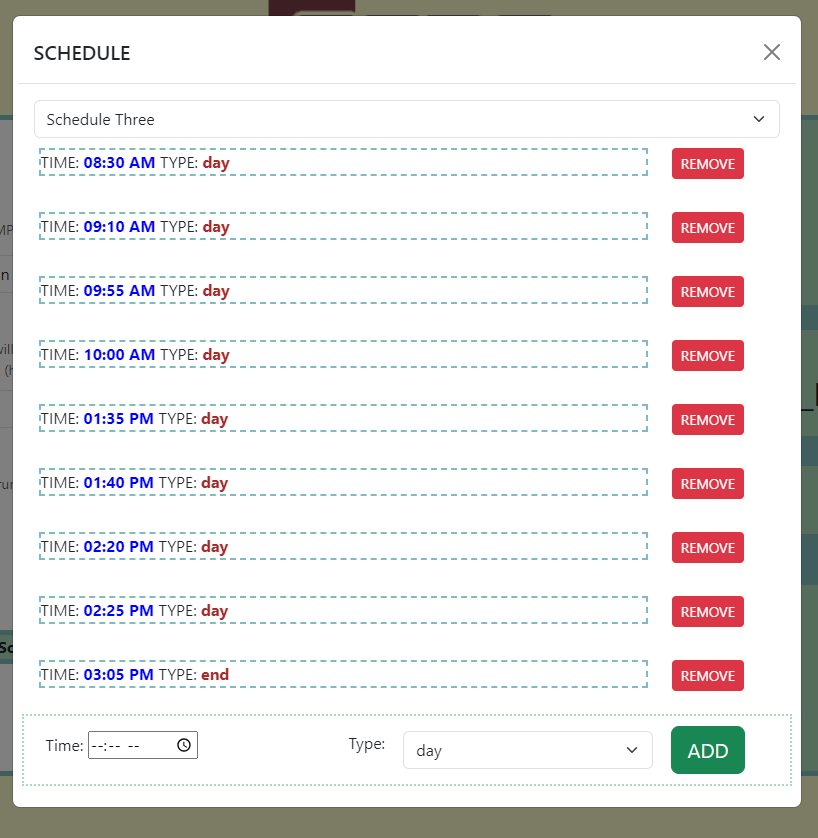
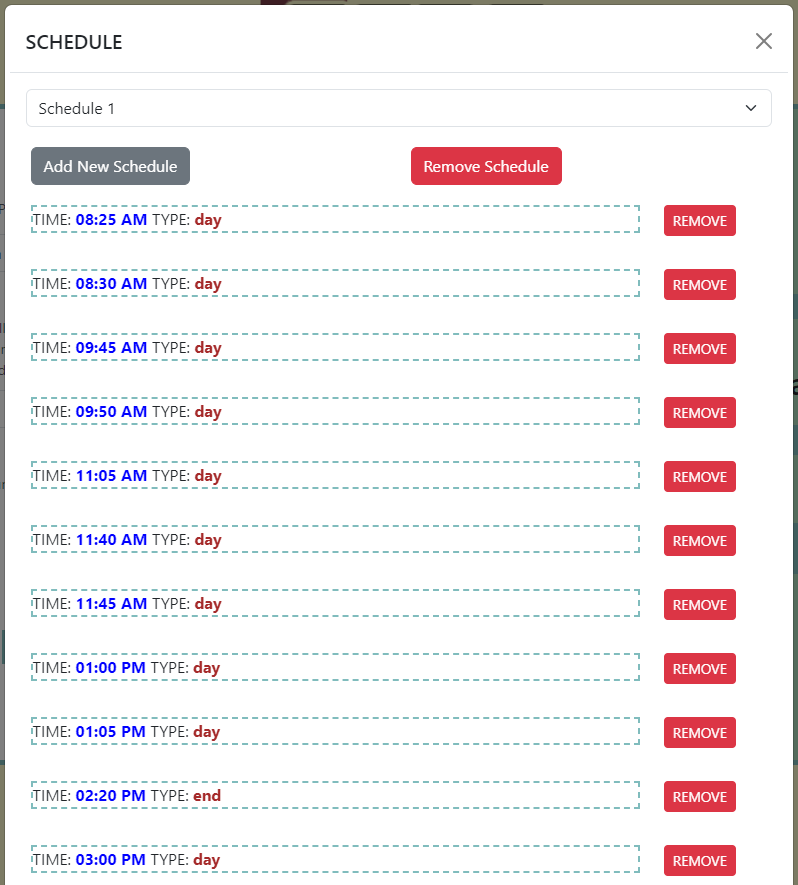
Sched Readme update

Changed region(s): [[0.0, 0.0, 1.0, 1.0], [0.5113, 0.1551, 0.7218, 0.2172]]

diff --git a/main.py b/main.py
@@ -23,7 +23,7 @@ app_state = {
                 "error": [False, False], 
                 "volume": 75, 
                 "schedule":"1", 
-                "schedule_1": get_schedule("schedule_1.json"),
+                "schedule_1":get_schedule("schedule_1.json"),
                 "schedule_2":get_schedule("schedule_2.json"), 
                 "schedule_3":get_schedule("schedule_3.json")
             }  # App state dictionary

diff --git a/README.md b/README.md
@@ -16,7 +16,7 @@ This project is designed to automate the school bell system using a Raspberry Pi
    ![ssbs1](static/assets/ssbs1.png)
 
 
-3. Clicking the `SCHEDULE` button will trigger a pop-up that will let you add and remove new time slots.  Clicking the dropdown will let you load a different schedule of which there are currently only three that you can keep saved.  The main page will let you know which Schedule is currently loaded.
+3. Clicking the `SCHEDULE` button will trigger a pop-up that will let you add and remove new time slots.  Clicking the dropdown will let you load a different schedule.  Here you can add a new schedule or delete the currently selected schedule.  The main page will let you know which Schedule is currently loaded.
 
    ![ssbs3](static/assets/ssbs3.png)
 
